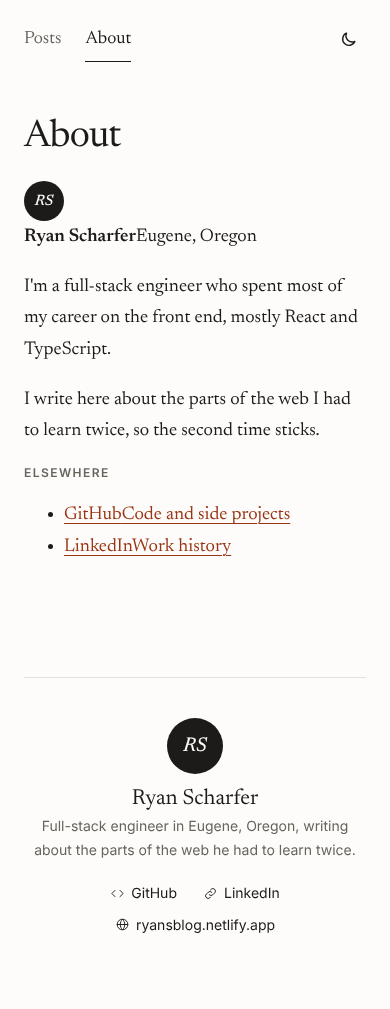
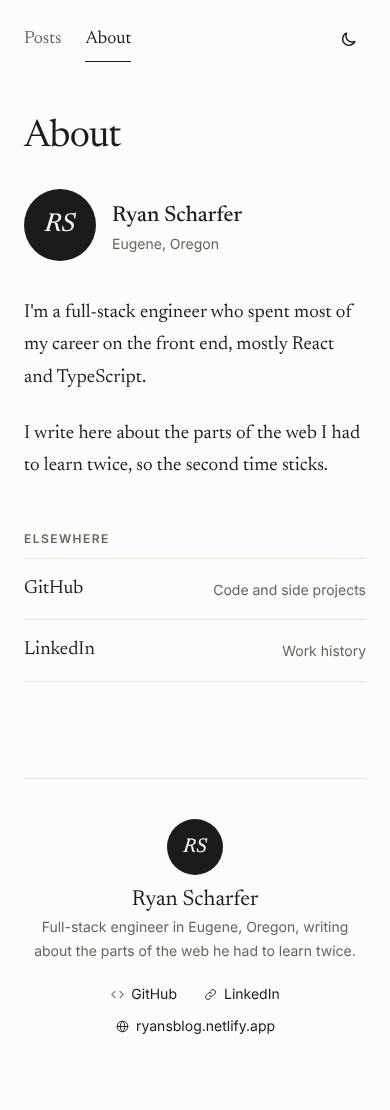
Update design reference: styled Posts and About, new syn-c token
Ryan's updated reference CSS, tokens and screenshots.

diff --git a/design/reference/styles.css b/design/reference/styles.css
@@ -12,7 +12,7 @@
   --syn-s: #3f6212;
   --syn-f: #1e3a8a;
   --syn-p: #6b21a8;
-  --syn-c: #6e6a63;
+  --syn-c: #625e57;
 }
 [data-theme="dark"] {
   color-scheme: dark;
@@ -27,7 +27,7 @@
   --syn-s: #a7d17c;
   --syn-f: #93b4f5;
   --syn-p: #c9a3ef;
-  --syn-c: #8f8a82;
+  --syn-c: #9a958c;
 }
 :root {
   --font-serif: Newsreader, Charter, Georgia, serif;
@@ -202,3 +202,38 @@ footer.site .links svg{width:15px;height:15px;fill:none;stroke:currentColor;stro
 .theme-btn .sun{display:none}
 [data-theme="dark"] .theme-btn .sun{display:block}[data-theme="dark"] .theme-btn .moon{display:none}
 .topright{display:flex;align-items:center;gap:6px}
+
+/* posts index */
+.index-head{padding-bottom:8px}
+.index-head .subtitle{margin-bottom:20px}
+.datenote{font:13px/1.5 var(--font-sans);color:var(--muted);margin:0 0 8px}
+.year{margin:56px 0 0;padding-bottom:12px;border-bottom:1px solid var(--ink)}
+.plist ol{list-style:none;margin:0;padding:0}
+.pitem{display:grid;grid-template-columns:120px 1fr;gap:4px 28px;padding:24px 0;border-bottom:1px solid var(--rule);text-decoration:none;color:var(--ink)}
+.pmeta{display:flex;flex-direction:column;gap:4px;font:13px/1.45 var(--font-sans);color:var(--muted);padding-top:6px}
+.pmeta .topic{font-weight:600;letter-spacing:.1em;text-transform:uppercase;font-size:11.5px;color:var(--link)}
+.pmeta time{font-variant-numeric:tabular-nums}
+.ptitle{font-size:24px;line-height:1.3;font-weight:500;letter-spacing:-.005em;text-wrap:balance}
+.psub{grid-column:2;font-size:17.5px;line-height:1.55;color:var(--muted)}
+.pitem:hover .ptitle{color:var(--link)}
+.pitem:focus-visible{outline-offset:4px}
+/* about */
+.about-body{font-size:21px;line-height:1.7}
+.about-body p{margin:0 0 24px}
+.about-me{display:flex;align-items:center;gap:16px;margin:8px 0 36px}
+.about-me .avatar{width:72px;height:72px;font-size:26px}
+.about-me b{display:block;font-weight:500;font-size:22px}
+.about-me div span{display:block;font:14px var(--font-sans);color:var(--muted)}
+.elsewhere{margin:48px 0 0}
+.elsewhere ul{list-style:none;margin:12px 0 0;padding:0;border-top:1px solid var(--rule)}
+.elsewhere li a{display:flex;justify-content:space-between;align-items:center;padding:14px 0;border-bottom:1px solid var(--rule);color:var(--ink);text-decoration:none;font-size:19px}
+.elsewhere li a span{font:14px var(--font-sans);color:var(--muted)}
+.elsewhere li a:hover{color:var(--link)}
+@media (max-width:640px){
+  .pitem{grid-template-columns:1fr;gap:6px;padding:20px 0}
+  .pmeta{flex-direction:row;gap:12px;padding-top:0;align-items:baseline}
+  .psub{grid-column:1;font-size:16.5px}
+  .ptitle{font-size:21px}
+  .year{margin-top:44px}
+  .about-body{font-size:19px}
+}
